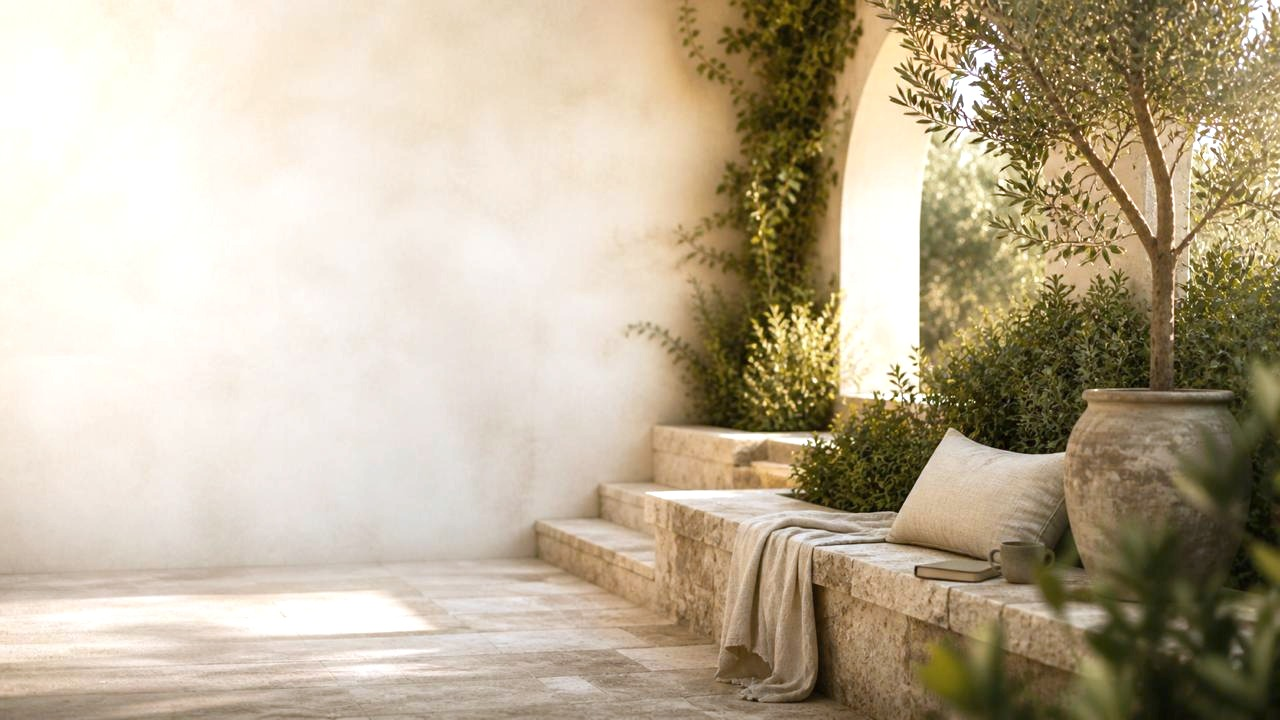
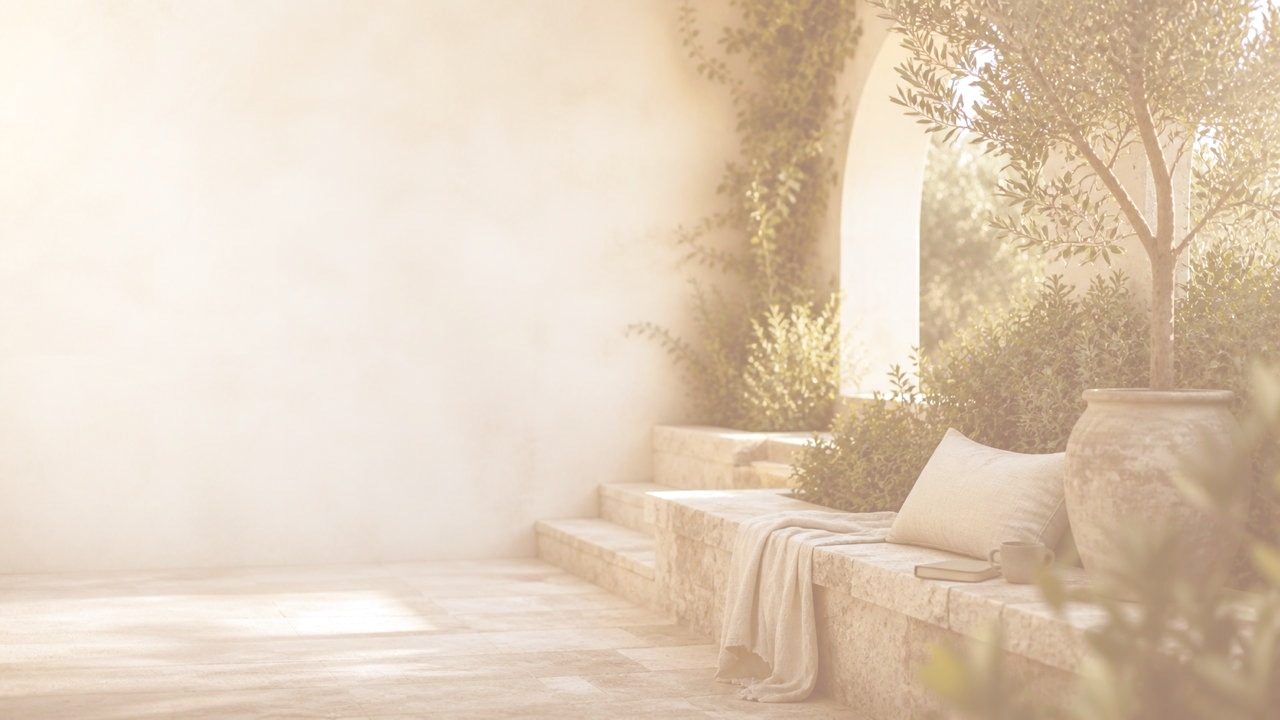
feat(tone): фон pain по рендеру Figma — 4,14 вместо 11,49
Формула filters в Figma не описана: 2^exposure выжигает светá в 255, а рендер
их поджимает. Поэтому кривая снимается с самого рендера:
- tools/fit-tone.mjs — аффинная подгонка по каналам с итеративной отбраковкой
  текста и графики (приём из syntonia-v3, img-tone.py)
- tools/bake-image.mjs --affine — запекает кривую в изображение
- sections/pain/image.json — провенанс: свойства заливки из Figma, коэффициенты,
  откуда сняты, измеренный результат
- tools/lib/png.mjs — декодер вынесен из compare.mjs

pain: средняя 11,49 → 4,14; > 16 — 25,1 % → 3,43 %; > 48 — 3,56 % → 1,91 %.
Плоский фон 10,6 → 3,2, ступени 33,1 → 4,3. У v2 было 4,89.
Геометрия остаётся зелёной: 0 нарушений.

diff --git a/src/styles/base.css b/src/styles/base.css
@@ -17,6 +17,7 @@ body {
   color: var(--color-text-primary);
   background: var(--color-bg-page);
   -webkit-font-smoothing: antialiased;
+  text-rendering: optimizeLegibility;
 }
 
 img,

diff --git a/docs/decisions.md b/docs/decisions.md
@@ -81,5 +81,7 @@
 | 34 | Ширина текста в макете 539, 473, 362 | **Отменено 06.11.** Ширина текстового блока — часть макета: ставится `max-width` из спеки, и переносы совпадают с Figma. Без него лид ломался после «опоры,» вместо «нет», хотя высота была та же. Ворота снова сверяют ширину TEXT | 539 и 473 в замере сходятся до 0,00; лид переносится как в макете |
 | 35 | У заливки фона стоят `filters`: exposure +0,35, saturation −0,13 | Ни «как есть», ни CSS-фильтром: `brightness()` считает в sRGB и выжигает каналы в 255. Фон уходит в `::before`, коррекция — SVG `feComponentTransfer` в `linearRGB`, коэффициенты по каналам 1,363 / 1,691 / 2,299 | средняя 50,13 → 11,99; пикселей > 48 — 95,7 % → 4,27 % |
 | 36 | Остаток фона после коррекции | Пересэмплирование фото внутри Figma не воспроизводится точно. Известное отклонение, а не дефект вёрстки | разбивка по областям: верх 10,8, низ 22,3 |
-| 37 | Как переносить `filters` заливки | Запекать в сам файл (`tools/bake-image.mjs`), а не в CSS. Экспозиция считается в линейном пространстве: в sRGB синий канал отстаёт на 46 единиц. Множители по каналам 1,363 / 1,691 / 2,299 | средняя 15,45 (sRGB) → **11,49** (линейно, запечено); > 48 — 3,56 % |
-| 38 | Откуда взяты множители | Подобраны по кропу: на чистом фоне решается `ref ≈ k·изображение` в линейном пространстве. Это калибровка по эталону, а не «на глаз» — тот же приём, что `img-tone.py` в `syntonia-v3` | остаток на фоне: верх 20,8, низ 46,6 до калибровки |
+| 37 | Как переносить `filters` заливки | Запекать в файл (`tools/bake-image.mjs`), а не в CSS | средняя 15,45 при CSS → 11,49 при запекании |
+| 38 | Формула `filters` не описана | `2^exposure` выжигает светá в 255 (плоский участок 255 против 243). Значит это не умножение, а кривая с поджатием светов. Формулу не угадываем | плоский участок: 10,6 до калибровки |
+| 39 | Чем заменить формулу | Аффинная кривая по каналам в sRGB, снятая с **рендера Figma**: `ref ≈ k·снимок + b`, выбросы (текст, графика) отбрасываются итеративно. `tools/fit-tone.mjs` | R 0,390/160,7 · G 0,567/128,9 · B 0,721/112,6 |
+| 40 | Результат | **4,14** средней, > 48 — 1,91 %, > 16 — 3,43 %. Плоский фон 3,2, ступени 4,3 (было 10,6 и 33,1). У v2 — 4,89 | `npm run compare`; коэффициенты и провенанс в `sections/pain/image.json` |

diff --git a/docs/ARCHITECTURE.md b/docs/ARCHITECTURE.md
@@ -45,7 +45,7 @@
 | hero: геометрия | **0 нарушений**, Δ max **0,11 px** | `npm run measure` |
 | hero: пиксель | средняя **1,81**, > 16 — **1,04 %** | `npm run compare` |
 | pain: геометрия | **0 нарушений**, 29 узлов из 34, ширины текста сходятся до 0,00 | `npm run measure` |
-| pain: пиксель | средняя **11,49**, > 16 — **25,1 %**, > 48 — **3,56 %** | `npm run compare` |
+| pain: пиксель | средняя **4,14**, > 16 — **3,43 %**, > 48 — **1,91 %** | `npm run compare` |
 | тестовая страница | 1487 = 780 + 707, переполнения нет, консоль 0 | Playwright |
 
 Для сравнения: прежний прогон давал по hero 3,52 и 2,25 %.
@@ -144,5 +144,5 @@
 | 06.11 | Скил `figma-export` в `~/.agents/skills/` | вариант 1: процедура универсальна, проектное — в `project.json` |
 | 06.11 | Высота строки округляется, как в Figma | дробная высота давала 21 красную строку на pain и копила ошибку вниз по дереву |
 | 06.11 | Ширина TEXT сверяется, ставится `max-width` | без него переносы строк не совпадают: высота та же, а текст ломается иначе |
-| 06.11 | `filters` запекаются в изображение | CSS-фильтры считают в sRGB и выжигают каналы; запекание в линейном пространстве даёт 11,49 против 15,45 |
+| 06.11 | `filters` запекаются в изображение аффинной кривой с рендера Figma | формула Figma не описана: умножение выжигает светá, кривая снимается с рендера. 11,49 → 4,14 |
 | 06.11 | Связь DOM ↔ Figma только через `data-figma-node` | ручной `measure.json` — единственный мостик, где ошибка не видна; теперь забыть строку нельзя, а лишний атрибут ловится |
